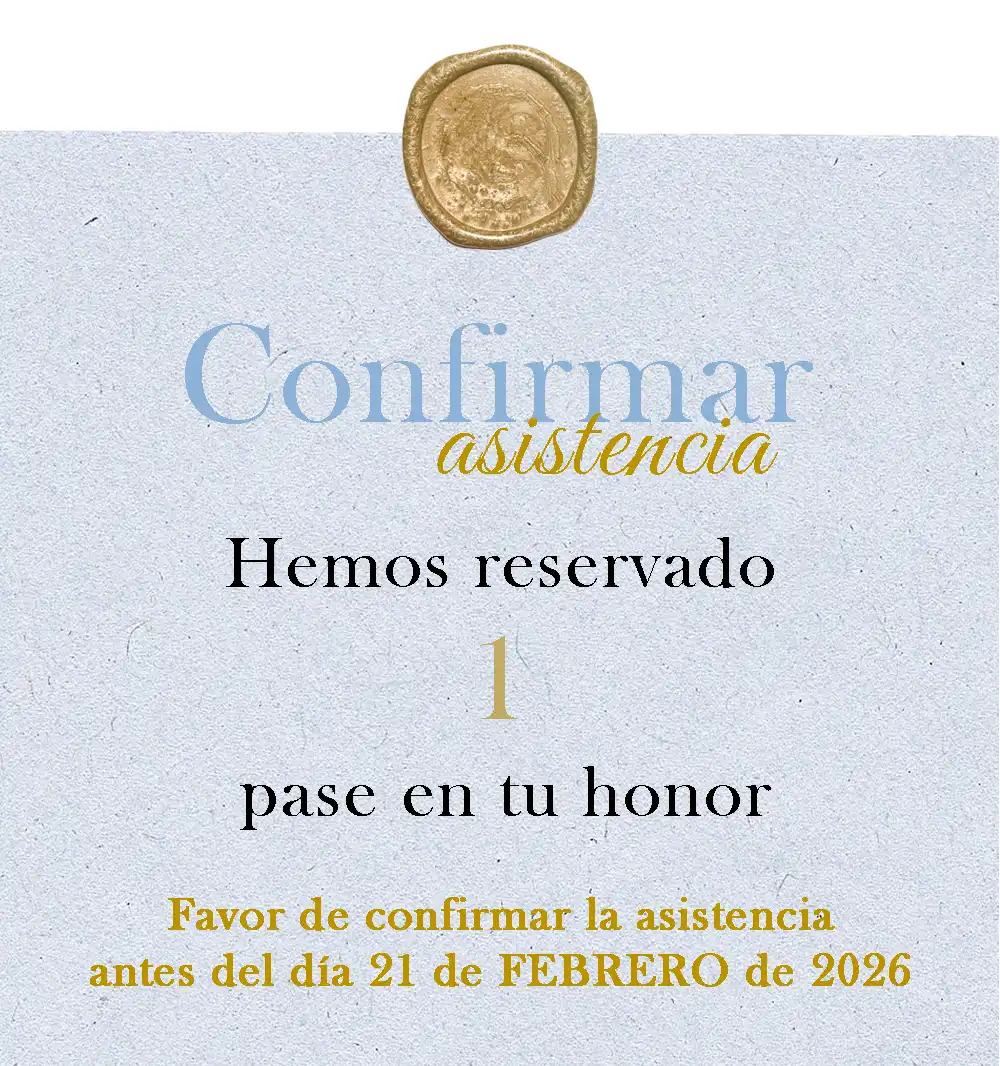
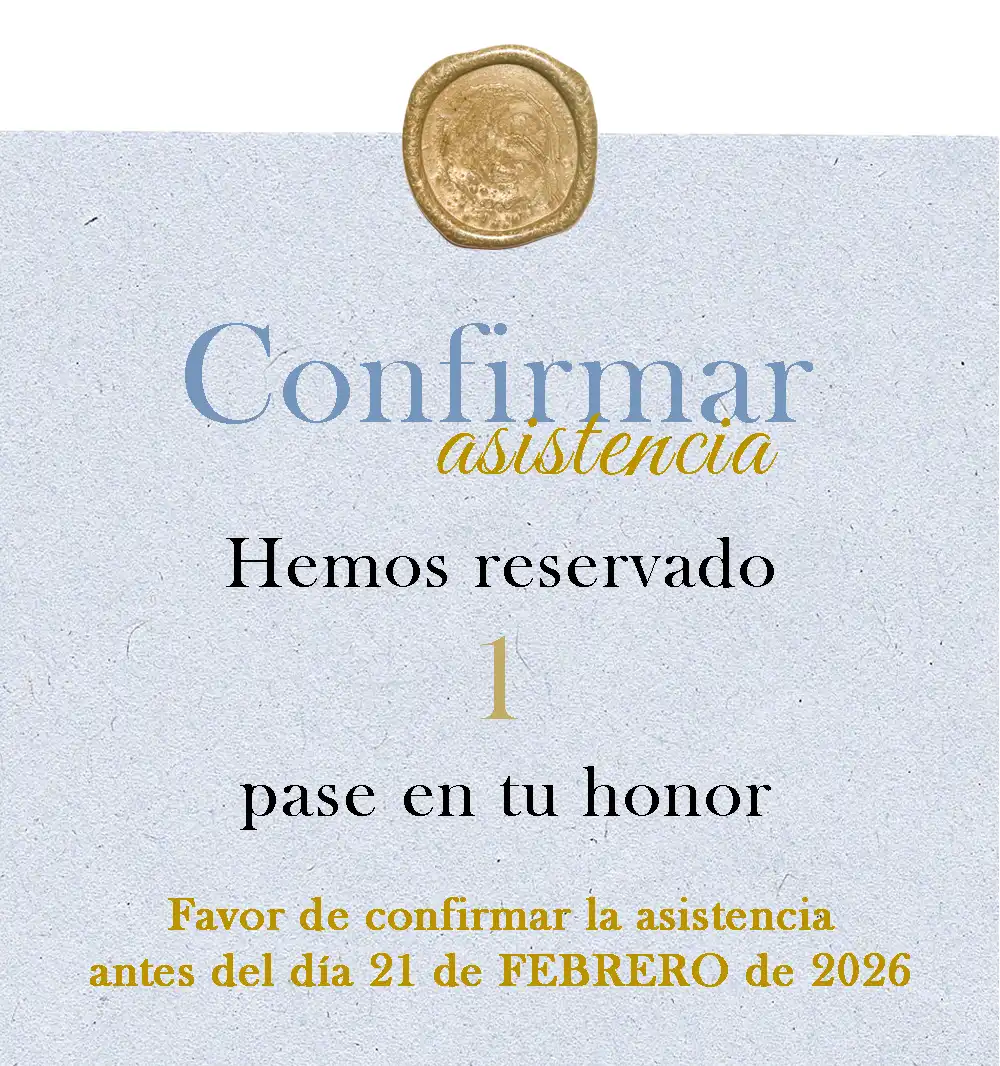
..

diff --git a/Aurora/a/index.html b/Aurora/a/index.html
@@ -75,7 +75,7 @@ body::-webkit-scrollbar {
 .botonfotos {
   display: inline-block;
   padding: 12px 24px;
-  background: #8b9bb1;
+  background: #6997c1;
   color: white;
   text-decoration: none;
   border-radius: 30px;
@@ -421,7 +421,7 @@ a:focus {
 
   border: none;              /* 🔥 quita el borde */
   border-radius: 30px;       /* 🔥 esquinas redondas */
-  background: #8b9bb1;          /* 🔥 color del botón */
+  background: #6997c1;          /* 🔥 color del botón */
   color: white;              /* 🔥 color del texto */
 }
 
@@ -569,7 +569,7 @@ html, body {
 .boton-mapa {
   display: inline-block;
   padding: 12px 24px;
-  background: #8b9bb1;
+  background: #6997c1;
   color: white;
   text-decoration: none;
   border-radius: 30px;
@@ -654,7 +654,7 @@ html, body {
 /* Estado normal */
 .rsvp-form button {
   transition: background 0.8s ease, transform 0.2s ease;
-  background: #8b9bb1;
+  background: #6997c1;
 }
 
 
